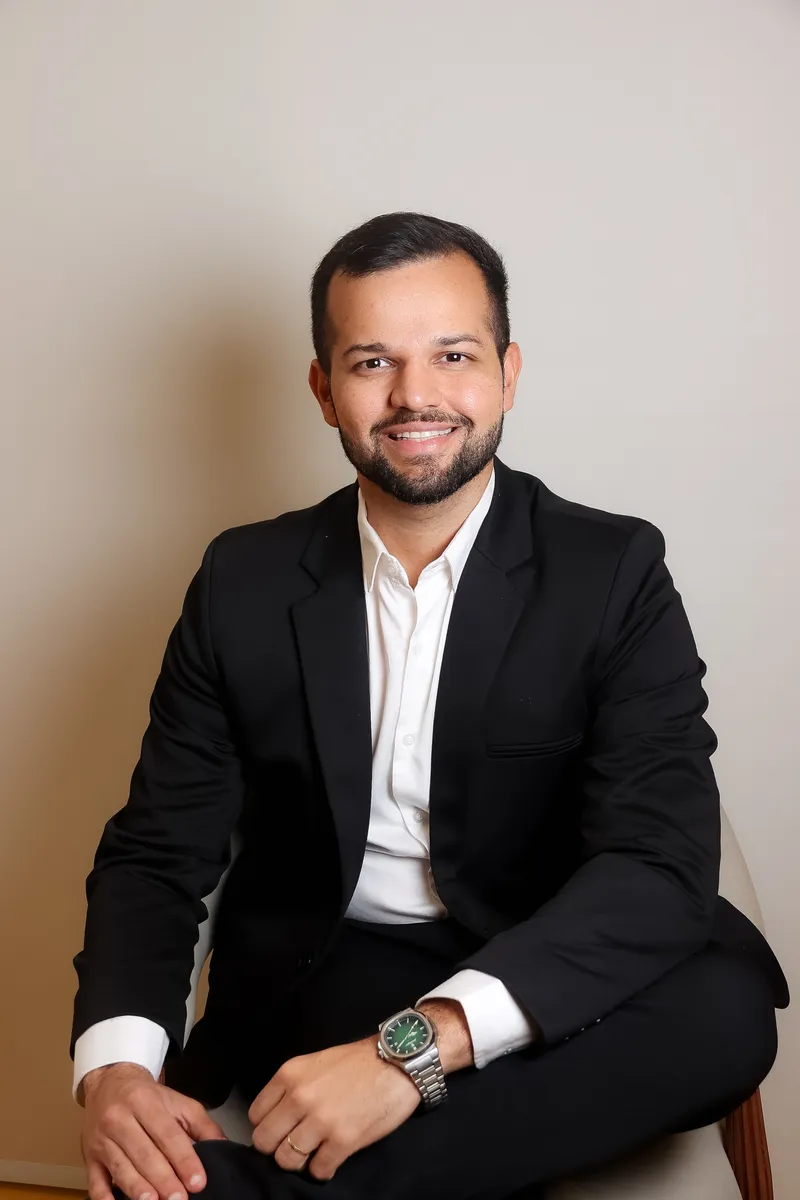
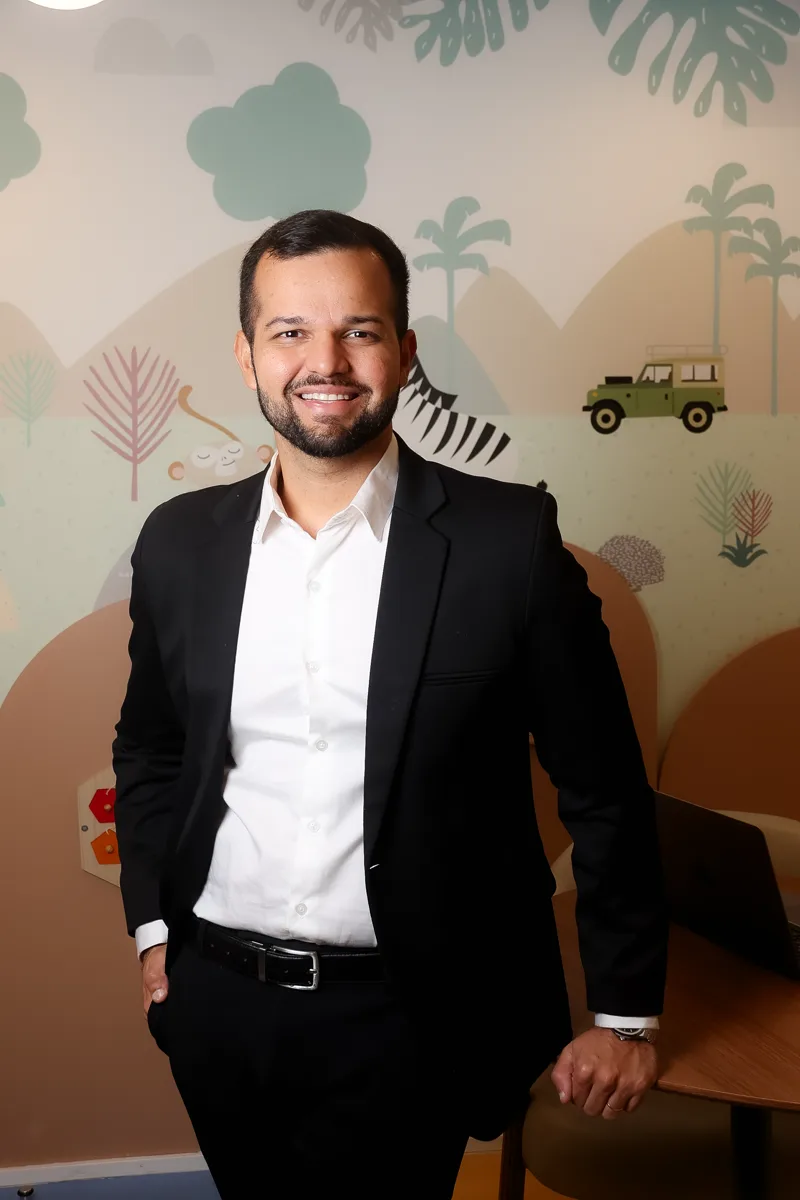
Reformula home: nova foto de hero/sobre, dor-primeiro, CTA unificado e seção do consultório
Troca as fotos de hero e sobre por versoes mais quentes/reais, adiciona
copy de dor-primeiro antes do H1, unifica todos os CTAs de agendamento
em "Agendar Consulta" com tag de origem na mensagem do WhatsApp, repete
o CTA a cada 2-3 secoes, adiciona secao "Nosso Consultorio" com fotos
reais do espaco, selo 5,0 no Google perto do CTA final, srcset nas
imagens que faltavam e aquece o fundo dos icones de "O que trato".

Claude-Session: https://claude.ai/code/session_01WCMxZqdhdGXRAwGsvYZxab

diff --git a/index.html b/index.html
@@ -230,6 +230,7 @@ header{position:sticky;top:0;z-index:50;background:rgba(7,26,50,.9);backdrop-fil
 .badge{display:inline-flex;align-items:center;gap:8px;background:rgba(255,255,255,.09);border:1px solid rgba(229,211,168,.35);color:var(--gold-soft);font-size:.8rem;font-weight:600;padding:8px 16px;border-radius:999px}
 .badge::before{content:"";width:7px;height:7px;border-radius:50%;background:var(--gold);animation:pulse 2.4s infinite}
 @keyframes pulse{0%,100%{box-shadow:0 0 0 0 rgba(201,162,75,.5)}55%{box-shadow:0 0 0 7px rgba(201,162,75,0)}}
+.hero p.pain{color:#E8EDF5;font-size:1.12rem;font-weight:500;font-style:italic;max-width:46ch;margin:18px 0 0;padding-left:14px;border-left:2px solid var(--gold)}
 .hero h1{color:#fff;font-size:clamp(2.15rem,6.6vw,3.6rem);font-weight:600;margin:20px 0 14px}
 .hero h1 .gold{color:var(--gold);font-style:italic}
 .hero p.sub{color:#C9D6E6;font-size:1.05rem;max-width:48ch}
@@ -280,6 +281,22 @@ header{position:sticky;top:0;z-index:50;background:rgba(7,26,50,.9);backdrop-fil
 .cred b{color:var(--navy);font-size:.92rem}
 @media(min-width:900px){.sobre-grid{grid-template-columns:.9fr 1.1fr;align-items:center}}
 
+/* ---------- mini CTA (repetida entre seções) ---------- */
+.btn-sm{padding:12px 22px;font-size:.9rem}
+.mini-cta{display:flex;flex-wrap:wrap;align-items:center;gap:16px;margin-top:30px;padding-top:26px;border-top:1px solid var(--sand)}
+.mini-cta p{color:var(--ink-soft);font-size:.95rem;margin:0;font-weight:600}
+.mini-cta.on-dark{border-top-color:rgba(255,255,255,.12)}
+.mini-cta.on-dark p{color:#C9D6E6}
+.mini-cta.center{justify-content:center;text-align:center}
+
+/* ---------- consultório ---------- */
+.consultorio{background:var(--cream-2)}
+.cons-grid{display:grid;gap:16px;margin-top:38px;grid-template-columns:1fr}
+.cons-card{border-radius:var(--radius);overflow:hidden;box-shadow:var(--shadow);aspect-ratio:4/3}
+.cons-card img{width:100%;height:100%;object-fit:cover;transition:transform .5s var(--ease)}
+.cons-card:hover img{transform:scale(1.05)}
+@media(min-width:760px){.cons-grid{grid-template-columns:repeat(3,1fr)}}
+
 /* ---------- trajetória ---------- */
 .traj{background:linear-gradient(165deg,var(--navy) 0%,var(--navy-deep) 100%);color:#fff;position:relative;overflow:hidden}
 .traj::before{content:"";position:absolute;width:480px;height:480px;border-radius:50%;background:radial-gradient(circle,rgba(201,162,75,.13),transparent 65%);top:-200px;right:-140px}
@@ -303,7 +320,7 @@ header{position:sticky;top:0;z-index:50;background:rgba(7,26,50,.9);backdrop-fil
 .treat-grid{display:grid;gap:16px;margin-top:38px;grid-template-columns:1fr}
 .tcard{display:block;background:#fff;border:1px solid var(--sand);border-radius:var(--radius);padding:26px 24px;transition:transform .25s var(--ease),box-shadow .25s var(--ease),border-color .25s}
 .tcard:hover{transform:translateY(-5px);box-shadow:var(--shadow);border-color:var(--gold-soft)}
-.tcard .tic{width:46px;height:46px;border-radius:13px;background:var(--cream-2);display:grid;place-items:center;margin-bottom:16px;transition:transform .25s var(--ease)}
+.tcard .tic{width:46px;height:46px;border-radius:13px;background:linear-gradient(135deg,var(--cream-2),var(--sand-deep));display:grid;place-items:center;margin-bottom:16px;transition:transform .25s var(--ease)}
 .tcard:hover .tic{transform:scale(1.08) rotate(-4deg)}
 .tcard .tic svg{width:23px;height:23px;color:var(--gold);stroke-width:1.8}
 .tcard h3{font-size:1.12rem;margin-bottom:6px}
@@ -325,6 +342,9 @@ header{position:sticky;top:0;z-index:50;background:rgba(7,26,50,.9);backdrop-fil
 .band::before{content:"";position:absolute;width:340px;height:340px;border-radius:50%;background:radial-gradient(circle,rgba(201,162,75,.22),transparent 65%);top:-160px;right:-100px}
 .band h2{color:#fff;font-size:clamp(1.5rem,4.5vw,2.1rem)}
 .band p{color:#C9D6E6;margin:10px auto 24px;max-width:46ch}
+.google-seal{display:inline-flex;align-items:center;gap:8px;margin-top:18px;font-size:.85rem;color:#C9D6E6;font-weight:600}
+.google-seal:hover{color:#fff}
+.google-seal .stars-sm{color:var(--gold);letter-spacing:2px;font-size:.85rem}
 @media(min-width:760px){.band{padding:58px 60px}}
 
 /* ---------- depoimentos ---------- */
@@ -431,9 +451,9 @@ footer a:hover{color:#fff}
       <a href="#depoimentos">Depoimentos</a>
       <a href="#faq">FAQ</a>
     </nav>
-    <a class="btn btn-wa nav-cta" href="https://wa.me/5511920383955?text=Ol%C3%A1%2C+Dr.+Bruno!+Gostaria+de+agendar+uma+consulta." target="_blank" rel="noopener">
+    <a class="btn btn-wa nav-cta" href="https://wa.me/5511920383955?text=Ol%C3%A1%2C+Dr.+Bruno!+Gostaria+de+agendar+uma+consulta.+%28Vim+pelo+site%29" target="_blank" rel="noopener">
       <svg class="ico" viewBox="0 0 24 24" fill="currentColor"><path d="M17.5 14.4c-.3-.15-1.76-.87-2.03-.97-.27-.1-.47-.15-.67.15-.2.3-.77.96-.94 1.16-.17.2-.35.22-.65.07-.3-.15-1.26-.46-2.4-1.48-.89-.79-1.49-1.77-1.66-2.07-.17-.3-.02-.46.13-.61.13-.13.3-.35.45-.52.15-.17.2-.3.3-.5.1-.2.05-.37-.02-.52-.08-.15-.67-1.62-.92-2.22-.24-.58-.49-.5-.67-.51h-.57c-.2 0-.52.07-.8.37-.27.3-1.04 1.02-1.04 2.5 0 1.47 1.07 2.9 1.22 3.1.15.2 2.1 3.2 5.1 4.49.71.3 1.27.49 1.7.63.72.23 1.37.2 1.88.12.58-.09 1.76-.72 2-1.42.25-.7.25-1.3.18-1.42-.07-.12-.27-.2-.57-.35M12.05 21.8h-.01a9.87 9.87 0 0 1-5.03-1.38l-.36-.21-3.74.98 1-3.65-.24-.37a9.86 9.86 0 0 1-1.51-5.26c0-5.45 4.44-9.88 9.9-9.88a9.83 9.83 0 0 1 7 2.9 9.83 9.83 0 0 1 2.89 7c0 5.45-4.44 9.88-9.9 9.88m8.42-18.3A11.82 11.82 0 0 0 12.05 0C5.5 0 .16 5.34.16 11.9c0 2.1.55 4.14 1.59 5.94L.06 24l6.3-1.65a11.9 11.9 0 0 0 5.68 1.45h.01c6.55 0 11.89-5.34 11.89-11.9 0-3.18-1.24-6.16-3.47-8.4"/></svg>
-      WhatsApp
+      Agendar Consulta
     </a>
     <button class="burger" aria-label="Abrir menu" onclick="document.querySelector('.mobile-menu').classList.toggle('open')"><span></span></button>
   </div>
@@ -444,7 +464,7 @@ footer a:hover{color:#fff}
     <a href="#consulta" onclick="this.parentElement.classList.remove('open')">Como Funciona a Consulta</a>
     <a href="#depoimentos" onclick="this.parentElement.classList.remove('open')">Depoimentos</a>
     <a href="#faq" onclick="this.parentElement.classList.remove('open')">Perguntas Frequentes</a>
-    <a href="https://wa.me/5511920383955?text=Ol%C3%A1%2C+Dr.+Bruno!+Gostaria+de+agendar+uma+consulta." target="_blank" rel="noopener">Agendar pelo WhatsApp →</a>
+    <a href="https://wa.me/5511920383955?text=Ol%C3%A1%2C+Dr.+Bruno!+Gostaria+de+agendar+uma+consulta.+%28Vim+pelo+site%29" target="_blank" rel="noopener">Agendar Consulta →</a>
   </nav>
 </header>
 
@@ -453,6 +473,7 @@ footer a:hover{color:#fff}
   <div class="wrap hero-grid">
     <div class="hero-txt">
       <span class="badge hi hi-1">Residência UNIFESP · RQE 1406541</span>
+      <p class="pain hi hi-1">Já perdeu a conta de quantas vezes foi à emergência com crise de alergia do seu filho? Quanto você já gastou com remédio que não resolveu de verdade?</p>
       <h1 class="hi hi-2">Ajudo famílias a respirarem aliviadas, <span class="gold">livres das alergias.</span></h1>
       <p class="sub hi hi-3"><b>Dr. Bruno William</b> — Especialista em Alergia e Imunologia Pediátrica com residência pela <b>UNIFESP — Escola Paulista de Medicina</b>. Atendimento em São Paulo com encaixe rápido para quadros agudos — teleconsulta disponível para retornos e pacientes de outras cidades.</p>
       <div class="chips hi hi-4">
@@ -462,7 +483,7 @@ footer a:hover{color:#fff}
         <span class="chip"><svg viewBox="0 0 24 24" fill="none" stroke="currentColor" stroke-width="2.4" stroke-linecap="round" stroke-linejoin="round"><path d="M20 6 9 17l-5-5"/></svg>Sem encaminhamento</span>
       </div>
       <div class="hero-ctas hi hi-5">
-        <a class="btn btn-wa" href="https://wa.me/5511920383955?text=Ol%C3%A1%2C+Dr.+Bruno!+Gostaria+de+agendar+uma+consulta." target="_blank" rel="noopener">
+        <a class="btn btn-wa" href="https://wa.me/5511920383955?text=Ol%C3%A1%2C+Dr.+Bruno!+Gostaria+de+agendar+uma+consulta.+%28Vim+pelo+site%29" target="_blank" rel="noopener">
           <svg class="ico" viewBox="0 0 24 24" fill="currentColor"><path d="M17.5 14.4c-.3-.15-1.76-.87-2.03-.97-.27-.1-.47-.15-.67.15-.2.3-.77.96-.94 1.16-.17.2-.35.22-.65.07-.3-.15-1.26-.46-2.4-1.48-.89-.79-1.49-1.77-1.66-2.07-.17-.3-.02-.46.13-.61.13-.13.3-.35.45-.52.15-.17.2-.3.3-.5.1-.2.05-.37-.02-.52-.08-.15-.67-1.62-.92-2.22-.24-.58-.49-.5-.67-.51h-.57c-.2 0-.52.07-.8.37-.27.3-1.04 1.02-1.04 2.5 0 1.47 1.07 2.9 1.22 3.1.15.2 2.1 3.2 5.1 4.49.71.3 1.27.49 1.7.63.72.23 1.37.2 1.88.12.58-.09 1.76-.72 2-1.42.25-.7.25-1.3.18-1.42-.07-.12-.27-.2-.57-.35M12.05 21.8h-.01a9.87 9.87 0 0 1-5.03-1.38l-.36-.21-3.74.98 1-3.65-.24-.37a9.86 9.86 0 0 1-1.51-5.26c0-5.45 4.44-9.88 9.9-9.88a9.83 9.83 0 0 1 7 2.9 9.83 9.83 0 0 1 2.89 7c0 5.45-4.44 9.88-9.9 9.88m8.42-18.3A11.82 11.82 0 0 0 12.05 0C5.5 0 .16 5.34.16 11.9c0 2.1.55 4.14 1.59 5.94L.06 24l6.3-1.65a11.9 11.9 0 0 0 5.68 1.45h.01c6.55 0 11.89-5.34 11.89-11.9 0-3.18-1.24-6.16-3.47-8.4"/></svg>
           Agendar Consulta
         </a>
@@ -471,7 +492,7 @@ footer a:hover{color:#fff}
       <p class="hero-note hi hi-6"><svg viewBox="0 0 24 24" fill="none" stroke="currentColor" stroke-width="2" stroke-linecap="round" stroke-linejoin="round"><path d="M12 22s8-4 8-10V5l-8-3-8 3v7c0 6 8 10 8 10z"/></svg>Investigação com testes alérgicos e anamnese detalhada</p>
     </div>
     <div class="hero-photo hi hi-7">
-      <img src="img/dr-bruno-hero.webp" srcset="img/dr-bruno-hero-sm.webp 520w, img/dr-bruno-hero.webp 900w" sizes="(max-width:900px) 100vw, 480px" alt="Dr. Bruno William, alergista pediátrico, sorrindo em consultório infantil" width="900" height="1214" fetchpriority="high">
+      <img src="img/dr-bruno-hero.webp" srcset="img/dr-bruno-hero-sm.webp 520w, img/dr-bruno-hero.webp 900w" sizes="(max-width:900px) 100vw, 480px" alt="Dr. Bruno William, alergista e imunologista, especialista em alergia e imunologia" width="900" height="1352" fetchpriority="high">
       <div class="crm-card"><b>CRM-SP 222528</b><span>Residência UNIFESP · Alergia e Imunologia Pediátrica</span></div>
     </div>
   </div>
@@ -487,7 +508,7 @@ footer a:hover{color:#fff}
 
 <section id="sobre">
   <div class="wrap sobre-grid">
-    <div class="sobre-photo rv-l"><img src="img/dr-bruno-sobre.webp" alt="Dr. Bruno William Lopes de Almeida, alergista e imunologista pediátrico" loading="lazy" width="800" height="1200"></div>
+    <div class="sobre-photo rv-l"><img src="img/dr-bruno-sobre.webp" srcset="img/dr-bruno-sobre-sm.webp 480w, img/dr-bruno-sobre.webp 800w" sizes="(max-width:900px) 90vw, 430px" alt="Dr. Bruno William Lopes de Almeida, alergista e imunologista pediátrico, sorrindo no consultório infantil" loading="lazy" width="800" height="1200"></div>
     <div class="rv-r">
       <span class="kicker">Sobre o médico</span>
       <h2>Dr. Bruno William<br>Lopes de Almeida</h2>
@@ -500,13 +521,30 @@ footer a:hover{color:#fff}
         <div class="cred"><small>RQE Pediatria</small><b>140654</b></div>
         <div class="cred"><small>Formação</small><b>Residência UNIFESP — EPM</b></div>
       </div>
+      <div class="mini-cta">
+        <p>Já decidiu? Fale agora com a equipe do Dr. Bruno.</p>
+        <a class="btn btn-wa btn-sm" href="https://wa.me/5511920383955?text=Ol%C3%A1%2C+Dr.+Bruno!+Gostaria+de+agendar+uma+consulta.+%28Vim+pelo+site%29" target="_blank" rel="noopener">Agendar Consulta</a>
+      </div>
+    </div>
+  </div>
+</section>
+
+<section class="consultorio">
+  <div class="wrap">
+    <span class="kicker rv">Nosso espaço</span>
+    <h2 class="rv">Um consultório pensado <em class="gold-i">para crianças</em> se sentirem à vontade</h2>
+    <p class="lead rv">Unidades equipadas para investigação completa, com um ambiente acolhedor para os pequenos pacientes — nada de sala de espera fria.</p>
+    <div class="cons-grid" data-stagger>
+      <div class="cons-card rv"><img src="img/consultorio-2.webp" alt="Área de espera infantil do consultório, com cantinho de brinquedos e decoração lúdica" loading="lazy" width="640" height="427"></div>
+      <div class="cons-card rv"><img src="img/consultorio-1.webp" alt="Sala de atendimento pediátrico com bichinhos de pelúcia e espaço para teleconsulta" loading="lazy" width="800" height="533"></div>
+      <div class="cons-card rv"><img src="img/consultorio-3.webp" alt="Sala de consulta e exame, ambiente clínico com vista da cidade" loading="lazy" width="547" height="365"></div>
     </div>
   </div>
 </section>
 
 <section class="traj">
   <div class="wrap traj-grid">
-    <div class="traj-photo rv-l"><img src="img/dr-bruno-formacao.webp" alt="Dr. Bruno William Lopes de Almeida, alergista e imunologista pediátrico, em ambiente profissional" loading="lazy" width="860" height="1075"></div>
+    <div class="traj-photo rv-l"><img src="img/dr-bruno-formacao.webp" srcset="img/dr-bruno-formacao-sm.webp 480w, img/dr-bruno-formacao.webp 860w" sizes="(max-width:900px) 90vw, 320px" alt="Dr. Bruno William Lopes de Almeida, alergista e imunologista pediátrico, em ambiente profissional" loading="lazy" width="860" height="1075"></div>
     <div class="rv-r">
     <span class="kicker">Trajetória</span>
     <h2>Formação construída nas <em class="gold-i">principais escolas</em> de medicina do país</h2>
@@ -537,6 +575,10 @@ footer a:hover{color:#fff}
       <a class="tcard rv" href="/teste-alergico-prick-test"><div class="tic"><svg viewBox="0 0 24 24" fill="none" stroke="currentColor" stroke-linecap="round" stroke-linejoin="round"><path d="M9 3h6v5l4 9a3 3 0 0 1-3 4H8a3 3 0 0 1-3-4l4-9V3z"/><path d="M7 14h10" opacity=".5"/></svg></div><h3>Testes Alérgicos</h3><p>Identificação dos alérgenos por testes precisos, como o Prick Test cutâneo.</p></a>
       <a class="tcard rv" href="/imunodeficiencia-infantil"><div class="tic"><svg viewBox="0 0 24 24" fill="none" stroke="currentColor" stroke-linecap="round" stroke-linejoin="round"><path d="M12 22s8-4 8-10V5l-8-3-8 3v7c0 6 8 10 8 10z"/><path d="m9 12 2 2 4-4" opacity=".7"/></svg></div><h3>Imunodeficiências</h3><p>Diagnóstico e acompanhamento de erros inatos da imunidade em crianças.</p></a>
     </div>
+    <div class="mini-cta center">
+      <p>Reconheceu os sintomas do seu filho em alguma dessas condições?</p>
+      <a class="btn btn-wa btn-sm" href="https://wa.me/5511920383955?text=Ol%C3%A1%2C+Dr.+Bruno!+Gostaria+de+agendar+uma+consulta.+%28Vim+pelo+site%29" target="_blank" rel="noopener">Agendar Consulta</a>
+    </div>
   </div>
 </section>
 
@@ -558,7 +600,7 @@ footer a:hover{color:#fff}
     <div class="band rv-s">
       <h2>Seu filho merece o melhor cuidado.</h2>
       <p>Fale agora com a equipe do Dr. Bruno e verifique a disponibilidade para a primeira consulta.</p>
-      <a class="btn btn-wa" href="https://wa.me/5511920383955?text=Ol%C3%A1%2C+Dr.+Bruno!+Gostaria+de+agendar+uma+consulta." target="_blank" rel="noopener">Verificar disponibilidade no WhatsApp</a>
+      <a class="btn btn-wa" href="https://wa.me/5511920383955?text=Ol%C3%A1%2C+Dr.+Bruno!+Gostaria+de+agendar+uma+consulta.+%28Vim+pelo+site%29" target="_blank" rel="noopener">Agendar Consulta</a>
     </div>
   </div>
 </section>
@@ -587,9 +629,9 @@ footer a:hover{color:#fff}
         <li><svg viewBox="0 0 24 24" fill="none" stroke="currentColor" stroke-width="2.4" stroke-linecap="round" stroke-linejoin="round"><path d="M20 6 9 17l-5-5"/></svg>Ideal para retornos e acompanhamentos</li>
         <li><svg viewBox="0 0 24 24" fill="none" stroke="currentColor" stroke-width="2.4" stroke-linecap="round" stroke-linejoin="round"><path d="M20 6 9 17l-5-5"/></svg>Mesma atenção e tempo de consulta</li>
       </ul>
-      <a class="btn btn-navy" href="https://wa.me/5511920383955?text=Ol%C3%A1%2C+Dr.+Bruno!+Gostaria+de+agendar+uma+teleconsulta." target="_blank" rel="noopener">Agendar teleconsulta</a>
+      <a class="btn btn-navy" href="https://wa.me/5511920383955?text=Ol%C3%A1%2C+Dr.+Bruno!+Gostaria+de+agendar+uma+teleconsulta.+%28Vim+pelo+site%29" target="_blank" rel="noopener">Agendar Consulta</a>
     </div>
-    <div class="tele-photo rv-r"><img src="img/dr-bruno-tele.webp" alt="Dr. Bruno William em atendimento online" loading="lazy" width="700" height="1050"></div>
+    <div class="tele-photo rv-r"><img src="img/dr-bruno-tele.webp" srcset="img/dr-bruno-tele-sm.webp 400w, img/dr-bruno-tele.webp 700w" sizes="(max-width:900px) 90vw, 420px" alt="Dr. Bruno William em atendimento online" loading="lazy" width="700" height="1050"></div>
   </div>
 </section>
 
@@ -606,6 +648,10 @@ footer a:hover{color:#fff}
       <details><summary>Preciso de encaminhamento para agendar?</summary><p>Não. A primeira consulta pode ser agendada diretamente, sem necessidade de encaminhamento de outro médico.</p></details>
       <details><summary>O Dr. Bruno trata APLV (alergia à proteína do leite de vaca)?</summary><p>Sim. O Dr. Bruno oferece investigação completa e manejo clínico da APLV e de outras alergias alimentares, desde bebês até adolescentes.</p></details>
       <details><summary>Atende adultos também?</summary><p>Sim. O foco principal é o público pediátrico, mas adultos com doenças alérgicas e imunológicas também são atendidos.</p></details>
+    </div>
+    <div class="mini-cta center" style="max-width:780px;margin-inline:auto">
+      <p>Ainda com dúvidas? Fale direto com a equipe.</p>
+      <a class="btn btn-wa btn-sm" href="https://wa.me/5511920383955?text=Ol%C3%A1%2C+Dr.+Bruno!+Gostaria+de+agendar+uma+consulta.+%28Vim+pelo+site%29" target="_blank" rel="noopener">Agendar Consulta</a>
     </div>
   </div>
 </section>
@@ -639,7 +685,10 @@ footer a:hover{color:#fff}
     <div class="band rv-s">
       <h2>Vamos cuidar do seu filho <em style="color:var(--gold)">juntos.</em></h2>
       <p>Resposta rápida pelo WhatsApp. Atendimento presencial em São Paulo ou online para todo o Brasil.</p>
-      <a class="btn btn-wa" href="https://wa.me/5511920383955?text=Ol%C3%A1%2C+Dr.+Bruno!+Gostaria+de+agendar+uma+consulta." target="_blank" rel="noopener">Falar com a equipe do Dr. Bruno</a>
+      <a class="btn btn-wa" href="https://wa.me/5511920383955?text=Ol%C3%A1%2C+Dr.+Bruno!+Gostaria+de+agendar+uma+consulta.+%28Vim+pelo+site%29" target="_blank" rel="noopener">Agendar Consulta</a>
+      <a class="google-seal" href="https://share.google/HBIi3hYCyyVctzSnr" target="_blank" rel="noopener">
+        <span class="stars-sm">★★★★★</span> 5,0 no Google — ver avaliações
+      </a>
     </div>
   </div>
 </section>
@@ -676,12 +725,12 @@ footer a:hover{color:#fff}
   <div class="wrap f-bottom">
     © 2026 Dr. Bruno William — Alergia e Imunologia Pediátrica. Todos os direitos reservados.<br>
     CRM-SP 222528 · RQE 1406541 (Alergia e Imunologia) · RQE 140654 (Pediatria)<br>
-    Conteúdo revisado e atualizado em 20 de julho de 2026<br>
+    Conteúdo revisado e atualizado em 19 de agosto de 2026<br>
     <a href="/politica-de-privacidade">Política de Privacidade</a>
   </div>
 </footer>
 
-<a class="wa-float" href="https://wa.me/5511920383955?text=Ol%C3%A1%2C+Dr.+Bruno!+Gostaria+de+agendar+uma+consulta." target="_blank" rel="noopener" aria-label="Agendar pelo WhatsApp">
+<a class="wa-float" href="https://wa.me/5511920383955?text=Ol%C3%A1%2C+Dr.+Bruno!+Gostaria+de+agendar+uma+consulta.+%28Vim+pelo+site%29" target="_blank" rel="noopener" aria-label="Agendar pelo WhatsApp">
   <svg viewBox="0 0 24 24" fill="currentColor"><path d="M17.5 14.4c-.3-.15-1.76-.87-2.03-.97-.27-.1-.47-.15-.67.15-.2.3-.77.96-.94 1.16-.17.2-.35.22-.65.07-.3-.15-1.26-.46-2.4-1.48-.89-.79-1.49-1.77-1.66-2.07-.17-.3-.02-.46.13-.61.13-.13.3-.35.45-.52.15-.17.2-.3.3-.5.1-.2.05-.37-.02-.52-.08-.15-.67-1.62-.92-2.22-.24-.58-.49-.5-.67-.51h-.57c-.2 0-.52.07-.8.37-.27.3-1.04 1.02-1.04 2.5 0 1.47 1.07 2.9 1.22 3.1.15.2 2.1 3.2 5.1 4.49.71.3 1.27.49 1.7.63.72.23 1.37.2 1.88.12.58-.09 1.76-.72 2-1.42.25-.7.25-1.3.18-1.42-.07-.12-.27-.2-.57-.35M12.05 21.8h-.01a9.87 9.87 0 0 1-5.03-1.38l-.36-.21-3.74.98 1-3.65-.24-.37a9.86 9.86 0 0 1-1.51-5.26c0-5.45 4.44-9.88 9.9-9.88a9.83 9.83 0 0 1 7 2.9 9.83 9.83 0 0 1 2.89 7c0 5.45-4.44 9.88-9.9 9.88m8.42-18.3A11.82 11.82 0 0 0 12.05 0C5.5 0 .16 5.34.16 11.9c0 2.1.55 4.14 1.59 5.94L.06 24l6.3-1.65a11.9 11.9 0 0 0 5.68 1.45h.01c6.55 0 11.89-5.34 11.89-11.9 0-3.18-1.24-6.16-3.47-8.4"/></svg>
 </a>
 
